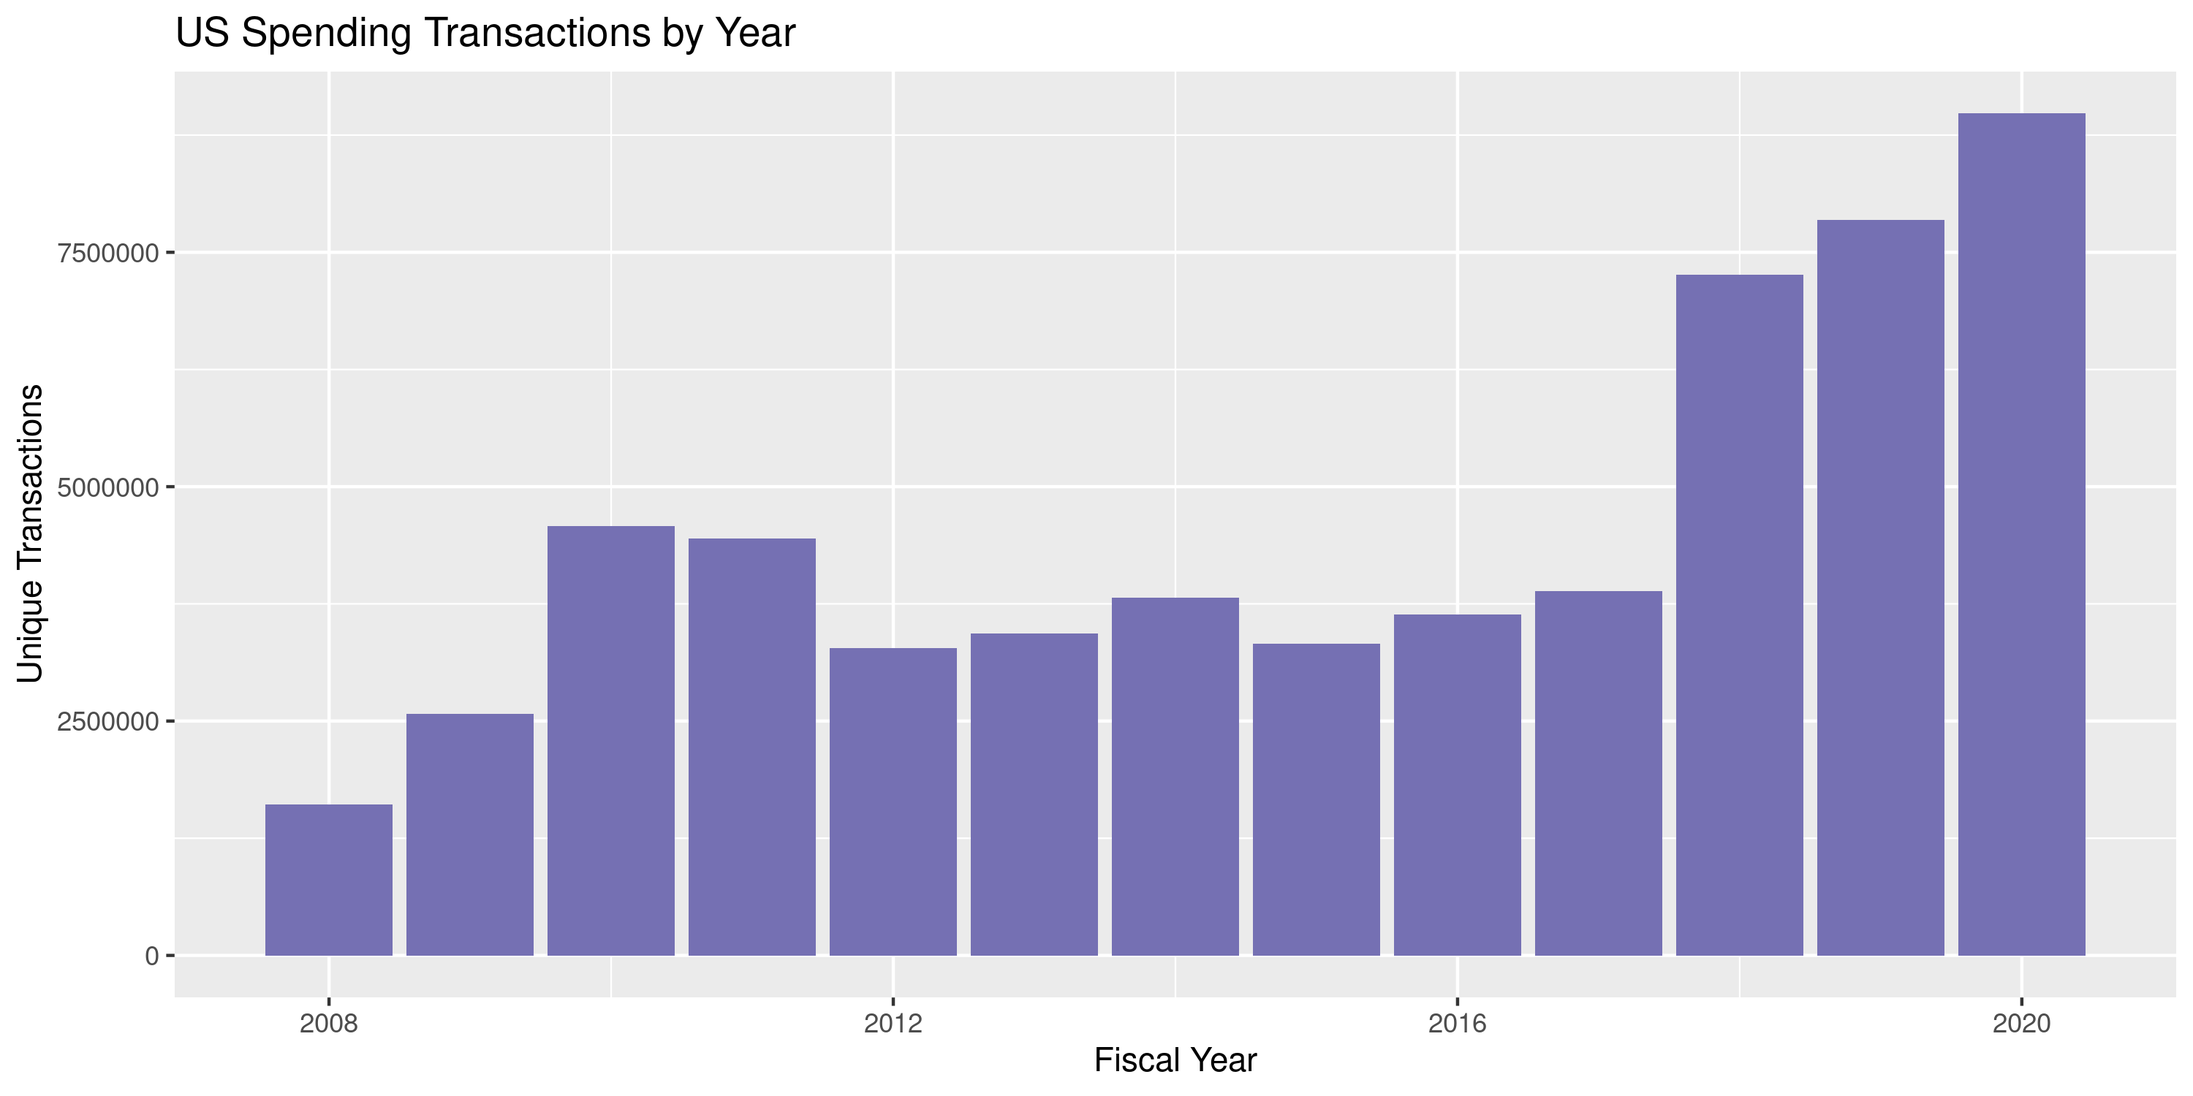
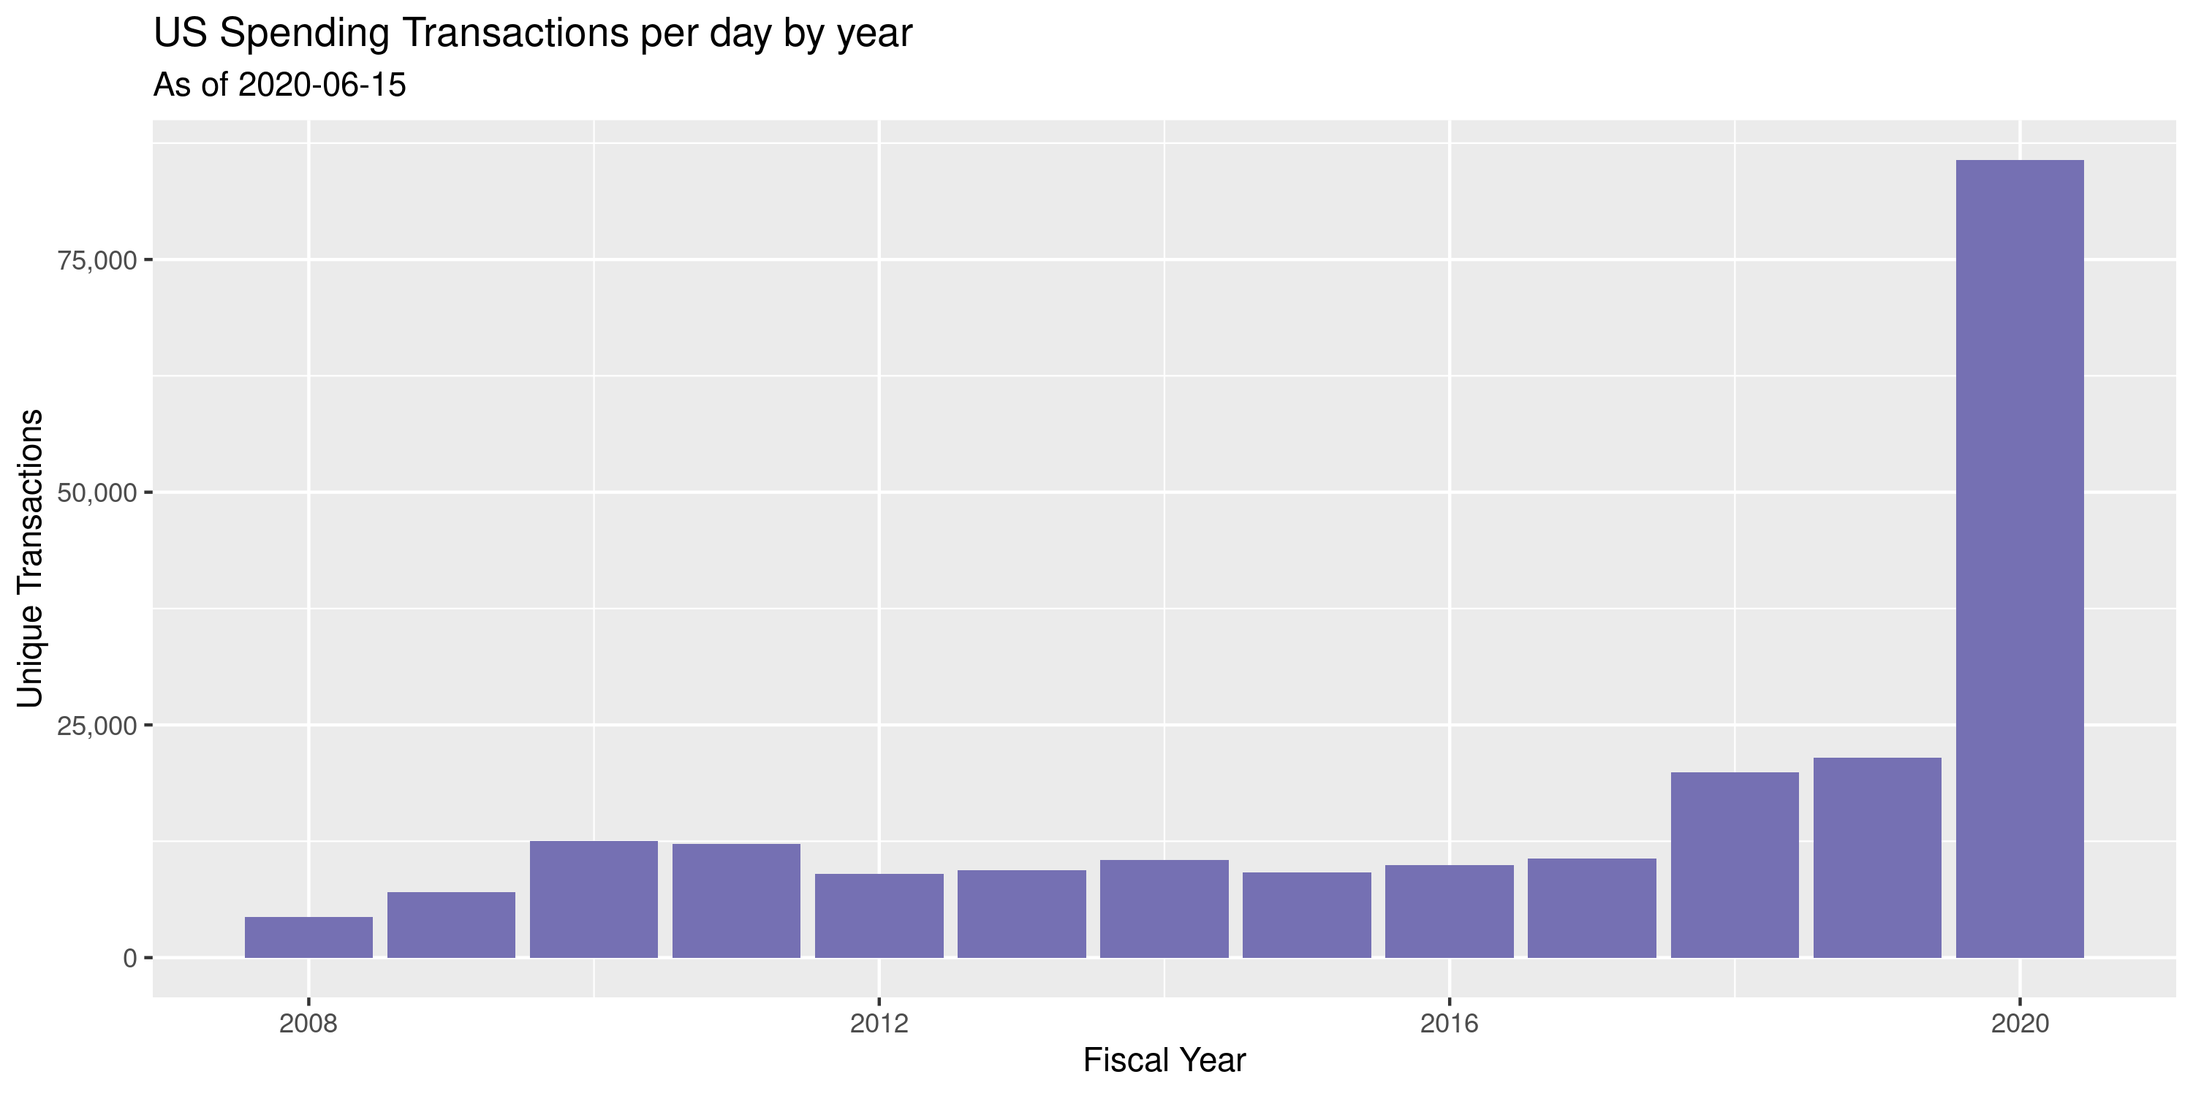
Update US assistance

diff --git a/R_campfin/us/assist/docs/us_assist_update.md b/R_campfin/us/assist/docs/us_assist_update.md
@@ -1,7 +1,7 @@
 Federal Financial Assistance Update
 ================
 Kiernan Nicholls
-2020-05-15 14:46:02
+2020-06-15 14:31:26
 
   - [Project](#project)
   - [Objectives](#objectives)
@@ -12,6 +12,7 @@ Kiernan Nicholls
   - [Layout](#layout)
   - [Read](#read)
   - [Check](#check)
+  - [Delta](#delta)
 
 <!-- Place comments regarding knitting here -->
 
@@ -147,13 +148,13 @@ files.
 ``` r
 zip_dir <- dir_create(here("us", "assist", "data", "zip"))
 base_url <- "https://files.usaspending.gov/award_data_archive/"
-fin_files <- glue("FY{year(today())}_All_Assistance_Full_20200513.zip")
+fin_files <- glue("FY{year(today())}_All_Assistance_Full_20200612.zip")
 fin_urls <- str_c(base_url, fin_files)
 fin_zips <- path(zip_dir, fin_files)
 ```
 
-    #> [1] "https://files.usaspending.gov/award_data_archive/FY2020_All_Assistance_Full_20200513.zip"
-    #> [1] "~/us/assist/data/zip/FY2020_All_Assistance_Full_20200513.zip"
+    #> [1] "https://files.usaspending.gov/award_data_archive/FY2020_All_Assistance_Full_20200612.zip"
+    #> [1] "~/us/assist/data/zip/FY2020_All_Assistance_Full_20200612.zip"
 
 We also need to add the records for spending and corrections made since
 this file was last updated. This is information is crucial, as it
@@ -170,7 +171,7 @@ contains the most recent data. This information can be found in the
 > download data prior to FY 2008, visit our Custom Award Data page.
 
 ``` r
-delta_file <- "FY(All)_All_Assistance_Delta_20200513.zip"
+delta_file <- "FY(All)_All_Assistance_Delta_20200612.zip"
 delta_url <- str_c(base_url, delta_file)
 delta_zip <- path(zip_dir, delta_file)
 ```
@@ -186,7 +187,7 @@ downloading.
 #> # A tibble: 1 x 2
 #>   url                                            size
 #>   <chr>                                   <fs::bytes>
-#> 1 FY2020_All_Assistance_Full_20200513.zip        464M
+#> 1 FY2020_All_Assistance_Full_20200612.zip        519M
 ```
 
 ``` r
@@ -284,10 +285,10 @@ them all at once into a single data file for exploration and wrangling.
 
 ``` r
 length(fin_paths)
-#> [1] 5
+#> [1] 6
 # total file sizes
 sum(file_size(fin_paths))
-#> 4.73G
+#> 5.15G
 # avail local memory
 as_fs_bytes(str_extract(system("free", intern = TRUE)[2], "\\d+"))
 #> 31.4M
@@ -420,14 +421,14 @@ for (f in c(fin_paths, delta_paths)) {
 
 ## Check
 
-In the end, 6 files were read and checked.
+In the end, 7 files were read and checked.
 
 ``` r
 all_paths <- dir_ls(raw_dir)
 length(all_paths)
-#> [1] 6
+#> [1] 7
 sum(file_size(all_paths))
-#> 5.16G
+#> 5.59G
 ```
 
 Now we can read the `spend_check.csv` text file to see the statistics
@@ -453,17 +454,22 @@ all_checks %>%
 #> # A tibble: 1 x 10
 #>       nrow  ncol  type start      end        missing  zero  city state   zip
 #>      <dbl> <dbl> <dbl> <date>     <date>       <dbl> <dbl> <dbl> <dbl> <dbl>
-#> 1 61089379  28.4  9.97 2002-04-08 2020-09-30 0.00300 0.245 0.991  1.00 0.999
+#> 1 66849136  34.5  9.96 2002-04-08 2020-09-30 0.00556 0.242 0.991  1.00 0.999
 ```
 
 ``` r
-all_checks %>% 
+per_day <- all_checks %>% 
   group_by(fiscal) %>% 
   summarise(nrow = sum(nrow)) %>% 
-  ggplot(aes(fiscal, nrow)) + 
+  mutate(per = nrow/365)
+per_day$per[13] <- per_day$nrow[13]/yday(today())
+per_day %>% 
+  ggplot(aes(fiscal, per)) + 
   geom_col(fill = dark2["purple"]) +
+  scale_y_continuous(labels = comma) +
   labs(
-    title = "US Spending Transactions by Year",
+    title = "US Spending Transactions per day by year",
+    subtitle = glue("As of {today()}"),
     x = "Fiscal Year",
     y = "Unique Transactions"
   )
@@ -473,73 +479,112 @@ all_checks %>%
 
 And here we have the total checks for every file.
 
-| file            |    nrow | types | start      | end        |   zero | city  | state  | zip    |
-| :-------------- | ------: | ----: | :--------- | :--------- | -----: | :---- | :----- | :----- |
-| `FY2008_1.csv`  | 1000000 |    10 | 2008-03-31 | 2008-09-30 | 576642 | 98.7% | 99.9%  | 99.8%  |
-| `FY2008_2.csv`  |  608006 |    10 | 2007-10-01 | 2008-03-31 | 376954 | 98.8% | 100.0% | 99.6%  |
-| `FY2009_1.csv`  | 1000000 |    10 | 2009-06-18 | 2009-09-30 | 512932 | 98.3% | 99.6%  | 99.7%  |
-| `FY2009_2.csv`  | 1000000 |    10 | 2009-02-05 | 2009-06-18 | 638277 | 98.9% | 99.9%  | 99.8%  |
-| `FY2009_3.csv`  |  577111 |    10 | 2008-10-01 | 2009-02-05 | 353010 | 98.9% | 99.9%  | 99.8%  |
-| `FY2010_1.csv`  | 1000000 |    10 | 2010-06-24 | 2010-09-30 | 539422 | 98.6% | 99.6%  | 99.8%  |
-| `FY2010_2.csv`  | 1000000 |    10 | 2010-04-02 | 2010-06-24 | 505128 | 99.1% | 99.8%  | 99.8%  |
-| `FY2010_3.csv`  | 1000000 |    10 | 2010-01-18 | 2010-04-02 | 463503 | 99.2% | 99.9%  | 99.8%  |
-| `FY2010_4.csv`  | 1000000 |    10 | 2009-10-23 | 2010-01-18 | 380230 | 99.1% | 99.9%  | 99.8%  |
-| `FY2010_5.csv`  |  579794 |    10 | 2009-10-01 | 2009-10-23 |  85910 | 99.2% | 100.0% | 100.0% |
-| `FY2011_1.csv`  | 1000000 |    10 | 2011-06-30 | 2011-09-30 | 397324 | 98.7% | 99.5%  | 99.8%  |
-| `FY2011_2.csv`  | 1000000 |    10 | 2011-04-18 | 2011-06-30 | 467776 | 99.2% | 99.7%  | 99.9%  |
-| `FY2011_3.csv`  | 1000000 |    10 | 2011-01-01 | 2011-04-18 | 425620 | 99.1% | 99.8%  | 99.9%  |
-| `FY2011_4.csv`  | 1000000 |    10 | 2010-10-09 | 2011-01-01 | 369793 | 99.2% | 100.0% | 99.9%  |
-| `FY2011_5.csv`  |  446187 |    10 | 2010-10-01 | 2010-10-09 |  39775 | 99.1% | 100.0% | 100.0% |
-| `FY2012_1.csv`  | 1000000 |    10 | 2012-05-29 | 2012-09-30 | 237388 | 98.3% | 100.0% | 99.7%  |
-| `FY2012_2.csv`  | 1000000 |    10 | 2011-12-31 | 2012-05-29 | 219791 | 98.7% | 99.6%  | 99.7%  |
-| `FY2012_3.csv`  | 1000000 |    10 | 2011-10-07 | 2011-12-31 | 180489 | 99.1% | 99.7%  | 99.8%  |
-| `FY2012_4.csv`  |  274924 |    10 | 2011-10-01 | 2011-10-07 |  15074 | 99.0% | 100.0% | 100.0% |
-| `FY2013_1.csv`  | 1000000 |    10 | 2013-06-07 | 2013-09-30 | 228070 | 97.8% | 100.0% | 99.9%  |
-| `FY2013_2.csv`  | 1000000 |    10 | 2013-01-29 | 2013-06-07 | 230441 | 98.6% | 100.0% | 99.6%  |
-| `FY2013_3.csv`  | 1000000 |    10 | 2012-10-05 | 2013-01-29 | 194301 | 99.0% | 100.0% | 98.5%  |
-| `FY2013_4.csv`  |  436000 |    10 | 2012-10-01 | 2012-10-05 |   3152 | 99.0% | 100.0% | 100.0% |
-| `FY2014_1.csv`  | 1000000 |    10 | 2014-06-27 | 2014-09-30 | 202536 | 97.8% | 100.0% | 99.9%  |
-| `FY2014_2.csv`  | 1000000 |    10 | 2014-02-28 | 2014-06-27 | 235792 | 98.1% | 100.0% | 99.9%  |
-| `FY2014_3.csv`  | 1000000 |    10 | 2013-10-31 | 2014-02-28 | 225858 | 98.7% | 100.0% | 100.0% |
-| `FY2014_4.csv`  |  818183 |    10 | 2013-10-01 | 2013-10-31 |  49032 | 99.0% | 100.0% | 100.0% |
-| `FY2015_1.csv`  | 1000000 |    10 | 2015-06-17 | 2015-09-30 | 207919 | 97.4% | 100.0% | 99.9%  |
-| `FY2015_2.csv`  | 1000000 |    10 | 2015-02-10 | 2015-06-17 | 228750 | 98.2% | 100.0% | 99.9%  |
-| `FY2015_3.csv`  | 1000000 |    10 | 2014-10-28 | 2015-02-10 | 211778 | 98.6% | 100.0% | 100.0% |
-| `FY2015_4.csv`  |  328425 |    10 | 2014-10-01 | 2014-10-28 |  44285 | 98.9% | 100.0% | 100.0% |
-| `FY2016_1.csv`  | 1000000 |    10 | 2016-06-28 | 2016-09-30 | 193095 | 97.8% | 100.0% | 99.9%  |
-| `FY2016_2.csv`  | 1000000 |    10 | 2016-02-25 | 2016-06-28 | 227867 | 98.1% | 100.0% | 99.9%  |
-| `FY2016_3.csv`  | 1000000 |    10 | 2015-11-03 | 2016-02-25 | 201722 | 98.2% | 100.0% | 100.0% |
-| `FY2016_4.csv`  |  632643 |    10 | 2015-10-01 | 2015-11-03 |  50961 | 99.0% | 100.0% | 100.0% |
-| `FY2017_1.csv`  | 1000000 |    10 | 2017-06-30 | 2017-09-30 | 146121 | 99.4% | 100.0% | 100.0% |
-| `FY2017_2.csv`  | 1000000 |    10 | 2017-03-23 | 2017-06-30 | 174485 | 99.5% | 100.0% | 100.0% |
-| `FY2017_3.csv`  | 1000000 |    10 | 2016-12-05 | 2017-03-23 | 192208 | 99.3% | 100.0% | 100.0% |
-| `FY2017_4.csv`  |  887842 |    10 | 2016-10-01 | 2016-12-05 | 137418 | 99.0% | 100.0% | 100.0% |
-| `FY2018_1.csv`  | 1000000 |    10 | 2017-10-01 | 2018-09-30 |  85505 | 99.6% | 100.0% | 100.0% |
-| `FY2018_2.csv`  | 1000000 |    10 | 2017-10-01 | 2018-09-30 |  88338 | 99.6% | 100.0% | 100.0% |
-| `FY2018_3.csv`  | 1000000 |    10 | 2017-10-01 | 2018-09-30 |  85913 | 99.6% | 100.0% | 100.0% |
-| `FY2018_4.csv`  | 1000000 |    10 | 2017-10-01 | 2018-09-30 |  87780 | 99.5% | 100.0% | 100.0% |
-| `FY2018_5.csv`  | 1000000 |    10 | 2017-10-01 | 2018-09-30 |  88827 | 99.5% | 100.0% | 100.0% |
-| `FY2018_6.csv`  | 1000000 |    10 | 2017-10-01 | 2018-09-30 |  85332 | 99.5% | 100.0% | 100.0% |
-| `FY2018_7.csv`  | 1000000 |    10 | 2017-10-01 | 2018-09-30 |  87710 | 99.6% | 100.0% | 100.0% |
-| `FY2018_8.csv`  |  263073 |    10 | 2017-10-01 | 2018-09-30 |  24243 | 99.5% | 100.0% | 100.0% |
-| `FY2019_1.csv`  | 1000000 |    10 | 2018-10-01 | 2019-09-30 | 178908 | 99.6% | 100.0% | 100.0% |
-| `FY2019_2.csv`  | 1000000 |    10 | 2018-10-01 | 2019-09-30 | 181622 | 99.6% | 100.0% | 100.0% |
-| `FY2019_3.csv`  | 1000000 |    10 | 2018-10-01 | 2019-09-30 | 183549 | 99.6% | 100.0% | 100.0% |
-| `FY2019_4.csv`  | 1000000 |    10 | 2018-10-01 | 2019-09-30 | 182285 | 99.6% | 100.0% | 100.0% |
-| `FY2019_5.csv`  | 1000000 |    10 | 2018-10-01 | 2019-09-30 | 182443 | 99.6% | 100.0% | 100.0% |
-| `FY2019_6.csv`  | 1000000 |    10 | 2018-10-01 | 2019-09-30 | 182384 | 99.6% | 100.0% | 100.0% |
-| `FY2019_7.csv`  | 1000000 |    10 | 2018-10-01 | 2019-09-30 | 181664 | 99.6% | 100.0% | 100.0% |
-| `FY2019_8.csv`  |  843036 |    10 | 2018-10-01 | 2019-09-30 | 153240 | 99.6% | 100.0% | 100.0% |
-| `FY2020_1.csv`  | 1000000 |    10 | 2019-12-02 | 2020-09-30 | 415899 | 99.7% | 100.0% | 100.0% |
-| `FY2020_2.csv`  | 1000000 |    10 | 2019-10-17 | 2019-12-02 | 226640 | 99.6% | 100.0% | 100.0% |
-| `FY2020_3.csv`  | 1000000 |    10 | 2019-10-08 | 2019-10-17 |  50671 | 99.5% | 100.0% | 100.0% |
-| `FY2020_4.csv`  | 1000000 |     9 | 2019-10-04 | 2019-10-08 |  13856 | 99.4% | 100.0% | 100.0% |
-| `FY2020_5.csv`  |   74967 |     9 | 2019-10-01 | 2019-10-04 |  20449 | 99.5% | 100.0% | 100.0% |
-| `FY(All)_1.csv` |  985905 |    10 | 2007-07-13 | 2020-09-30 | 407000 | 99.7% | 100.0% | 100.0% |
-| `FY(All)_1.csv` |  985905 |    10 | 2007-07-13 | 2020-09-30 | 407000 | 99.7% | 100.0% | 100.0% |
-| `FY2020_1.csv`  | 1000000 |    10 | 2020-01-31 | 2020-09-30 | 355215 | 99.8% | 100.0% | 100.0% |
-| `FY2020_2.csv`  | 1000000 |    10 | 2019-11-27 | 2020-01-31 | 399915 | 99.7% | 100.0% | 100.0% |
-| `FY2020_3.csv`  | 1000000 |    10 | 2019-10-09 | 2019-11-27 | 250475 | 99.6% | 100.0% | 100.0% |
-| `FY2020_4.csv`  | 1000000 |    10 | 2019-10-08 | 2019-10-09 |   7519 | 99.4% | 100.0% | 100.0% |
-| `FY2020_5.csv`  |  906004 |    10 | 2019-10-01 | 2019-10-08 |  33683 | 99.4% | 100.0% | 100.0% |
-| `FY(All)_1.csv` |  441374 |    10 | 2002-04-08 | 2020-05-11 | 169256 | 99.8% | 100.0% | 100.0% |
+| file            | nrow      | start      | end        | missing | zero  | city  | state  | zip    |
+| :-------------- | :-------- | :--------- | :--------- | ------: | :---- | :---- | :----- | :----- |
+| `FY2008_1.csv`  | 1,000,000 | 2008-03-31 | 2008-09-30 |       0 | 57.7% | 98.7% | 99.9%  | 99.8%  |
+| `FY2008_2.csv`  | 608,006   | 2007-10-01 | 2008-03-31 |       0 | 62.0% | 98.8% | 100.0% | 99.6%  |
+| `FY2009_1.csv`  | 1,000,000 | 2009-06-18 | 2009-09-30 |       0 | 51.3% | 98.3% | 99.6%  | 99.7%  |
+| `FY2009_2.csv`  | 1,000,000 | 2009-02-05 | 2009-06-18 |       0 | 63.8% | 98.9% | 99.9%  | 99.8%  |
+| `FY2009_3.csv`  | 577,111   | 2008-10-01 | 2009-02-05 |       0 | 61.2% | 98.9% | 99.9%  | 99.8%  |
+| `FY2010_1.csv`  | 1,000,000 | 2010-06-24 | 2010-09-30 |       0 | 53.9% | 98.6% | 99.6%  | 99.8%  |
+| `FY2010_2.csv`  | 1,000,000 | 2010-04-02 | 2010-06-24 |       0 | 50.5% | 99.1% | 99.8%  | 99.8%  |
+| `FY2010_3.csv`  | 1,000,000 | 2010-01-18 | 2010-04-02 |       0 | 46.4% | 99.2% | 99.9%  | 99.8%  |
+| `FY2010_4.csv`  | 1,000,000 | 2009-10-23 | 2010-01-18 |       0 | 38.0% | 99.1% | 99.9%  | 99.8%  |
+| `FY2010_5.csv`  | 579,794   | 2009-10-01 | 2009-10-23 |       0 | 14.8% | 99.2% | 100.0% | 100.0% |
+| `FY2011_1.csv`  | 1,000,000 | 2011-06-30 | 2011-09-30 |       0 | 39.7% | 98.7% | 99.5%  | 99.8%  |
+| `FY2011_2.csv`  | 1,000,000 | 2011-04-18 | 2011-06-30 |       0 | 46.8% | 99.2% | 99.7%  | 99.9%  |
+| `FY2011_3.csv`  | 1,000,000 | 2011-01-01 | 2011-04-18 |       0 | 42.6% | 99.1% | 99.8%  | 99.9%  |
+| `FY2011_4.csv`  | 1,000,000 | 2010-10-09 | 2011-01-01 |       0 | 37.0% | 99.2% | 100.0% | 99.9%  |
+| `FY2011_5.csv`  | 446,187   | 2010-10-01 | 2010-10-09 |       0 | 8.9%  | 99.1% | 100.0% | 100.0% |
+| `FY2012_1.csv`  | 1,000,000 | 2012-05-29 | 2012-09-30 |       0 | 23.7% | 98.3% | 100.0% | 99.7%  |
+| `FY2012_2.csv`  | 1,000,000 | 2011-12-31 | 2012-05-29 |       0 | 22.0% | 98.7% | 99.6%  | 99.7%  |
+| `FY2012_3.csv`  | 1,000,000 | 2011-10-07 | 2011-12-31 |       0 | 18.0% | 99.1% | 99.7%  | 99.8%  |
+| `FY2012_4.csv`  | 274,924   | 2011-10-01 | 2011-10-07 |       0 | 5.5%  | 99.0% | 100.0% | 100.0% |
+| `FY2013_1.csv`  | 1,000,000 | 2013-06-07 | 2013-09-30 |       0 | 22.8% | 97.8% | 100.0% | 99.9%  |
+| `FY2013_2.csv`  | 1,000,000 | 2013-01-29 | 2013-06-07 |       0 | 23.0% | 98.6% | 100.0% | 99.6%  |
+| `FY2013_3.csv`  | 1,000,000 | 2012-10-05 | 2013-01-29 |       0 | 19.4% | 99.0% | 100.0% | 98.5%  |
+| `FY2013_4.csv`  | 436,000   | 2012-10-01 | 2012-10-05 |       0 | 0.7%  | 99.0% | 100.0% | 100.0% |
+| `FY2014_1.csv`  | 1,000,000 | 2014-06-27 | 2014-09-30 |       0 | 20.3% | 97.8% | 100.0% | 99.9%  |
+| `FY2014_2.csv`  | 1,000,000 | 2014-02-28 | 2014-06-27 |       0 | 23.6% | 98.1% | 100.0% | 99.9%  |
+| `FY2014_3.csv`  | 1,000,000 | 2013-10-31 | 2014-02-28 |       0 | 22.6% | 98.7% | 100.0% | 100.0% |
+| `FY2014_4.csv`  | 818,183   | 2013-10-01 | 2013-10-31 |       0 | 6.0%  | 99.0% | 100.0% | 100.0% |
+| `FY2015_1.csv`  | 1,000,000 | 2015-06-17 | 2015-09-30 |       0 | 20.8% | 97.4% | 100.0% | 99.9%  |
+| `FY2015_2.csv`  | 1,000,000 | 2015-02-10 | 2015-06-17 |       0 | 22.9% | 98.2% | 100.0% | 99.9%  |
+| `FY2015_3.csv`  | 1,000,000 | 2014-10-28 | 2015-02-10 |       0 | 21.2% | 98.6% | 100.0% | 100.0% |
+| `FY2015_4.csv`  | 328,425   | 2014-10-01 | 2014-10-28 |       0 | 13.5% | 98.9% | 100.0% | 100.0% |
+| `FY2016_1.csv`  | 1,000,000 | 2016-06-28 | 2016-09-30 |       0 | 19.3% | 97.8% | 100.0% | 99.9%  |
+| `FY2016_2.csv`  | 1,000,000 | 2016-02-25 | 2016-06-28 |       0 | 22.8% | 98.1% | 100.0% | 99.9%  |
+| `FY2016_3.csv`  | 1,000,000 | 2015-11-03 | 2016-02-25 |       0 | 20.2% | 98.2% | 100.0% | 100.0% |
+| `FY2016_4.csv`  | 632,643   | 2015-10-01 | 2015-11-03 |       0 | 8.1%  | 99.0% | 100.0% | 100.0% |
+| `FY2017_1.csv`  | 1,000,000 | 2017-06-30 | 2017-09-30 |       0 | 14.6% | 99.4% | 100.0% | 100.0% |
+| `FY2017_2.csv`  | 1,000,000 | 2017-03-23 | 2017-06-30 |       0 | 17.4% | 99.5% | 100.0% | 100.0% |
+| `FY2017_3.csv`  | 1,000,000 | 2016-12-05 | 2017-03-23 |       0 | 19.2% | 99.3% | 100.0% | 100.0% |
+| `FY2017_4.csv`  | 887,842   | 2016-10-01 | 2016-12-05 |       0 | 15.5% | 99.0% | 100.0% | 100.0% |
+| `FY2018_1.csv`  | 1,000,000 | 2017-10-01 | 2018-09-30 |       0 | 8.6%  | 99.6% | 100.0% | 100.0% |
+| `FY2018_2.csv`  | 1,000,000 | 2017-10-01 | 2018-09-30 |       0 | 8.8%  | 99.6% | 100.0% | 100.0% |
+| `FY2018_3.csv`  | 1,000,000 | 2017-10-01 | 2018-09-30 |       0 | 8.6%  | 99.6% | 100.0% | 100.0% |
+| `FY2018_4.csv`  | 1,000,000 | 2017-10-01 | 2018-09-30 |       0 | 8.8%  | 99.5% | 100.0% | 100.0% |
+| `FY2018_5.csv`  | 1,000,000 | 2017-10-01 | 2018-09-30 |       0 | 8.9%  | 99.5% | 100.0% | 100.0% |
+| `FY2018_6.csv`  | 1,000,000 | 2017-10-01 | 2018-09-30 |       0 | 8.5%  | 99.5% | 100.0% | 100.0% |
+| `FY2018_7.csv`  | 1,000,000 | 2017-10-01 | 2018-09-30 |       0 | 8.8%  | 99.6% | 100.0% | 100.0% |
+| `FY2018_8.csv`  | 263,073   | 2017-10-01 | 2018-09-30 |       0 | 9.2%  | 99.5% | 100.0% | 100.0% |
+| `FY2019_1.csv`  | 1,000,000 | 2018-10-01 | 2019-09-30 |       0 | 17.9% | 99.6% | 100.0% | 100.0% |
+| `FY2019_2.csv`  | 1,000,000 | 2018-10-01 | 2019-09-30 |       0 | 18.2% | 99.6% | 100.0% | 100.0% |
+| `FY2019_3.csv`  | 1,000,000 | 2018-10-01 | 2019-09-30 |       0 | 18.4% | 99.6% | 100.0% | 100.0% |
+| `FY2019_4.csv`  | 1,000,000 | 2018-10-01 | 2019-09-30 |       0 | 18.2% | 99.6% | 100.0% | 100.0% |
+| `FY2019_5.csv`  | 1,000,000 | 2018-10-01 | 2019-09-30 |       0 | 18.2% | 99.6% | 100.0% | 100.0% |
+| `FY2019_6.csv`  | 1,000,000 | 2018-10-01 | 2019-09-30 |       0 | 18.2% | 99.6% | 100.0% | 100.0% |
+| `FY2019_7.csv`  | 1,000,000 | 2018-10-01 | 2019-09-30 |       0 | 18.2% | 99.6% | 100.0% | 100.0% |
+| `FY2019_8.csv`  | 843,036   | 2018-10-01 | 2019-09-30 |       0 | 18.2% | 99.6% | 100.0% | 100.0% |
+| `FY2020_1.csv`  | 1,000,000 | 2019-12-02 | 2020-09-30 |       0 | 41.6% | 99.7% | 100.0% | 100.0% |
+| `FY2020_2.csv`  | 1,000,000 | 2019-10-17 | 2019-12-02 |       0 | 22.7% | 99.6% | 100.0% | 100.0% |
+| `FY2020_3.csv`  | 1,000,000 | 2019-10-08 | 2019-10-17 |       0 | 5.1%  | 99.5% | 100.0% | 100.0% |
+| `FY2020_4.csv`  | 1,000,000 | 2019-10-04 | 2019-10-08 |       0 | 1.4%  | 99.4% | 100.0% | 100.0% |
+| `FY2020_5.csv`  | 74,967    | 2019-10-01 | 2019-10-04 |       0 | 27.3% | 99.5% | 100.0% | 100.0% |
+| `FY(All)_1.csv` | 985,905   | 2007-07-13 | 2020-09-30 |       0 | 41.3% | 99.7% | 100.0% | 100.0% |
+| `FY(All)_1.csv` | 985,905   | 2007-07-13 | 2020-09-30 |       0 | 41.3% | 99.7% | 100.0% | 100.0% |
+| `FY2020_1.csv`  | 1,000,000 | 2020-01-31 | 2020-09-30 |   36486 | 35.5% | 99.8% | 100.0% | 100.0% |
+| `FY2020_2.csv`  | 1,000,000 | 2019-11-27 | 2020-01-31 |   37374 | 40.0% | 99.7% | 100.0% | 100.0% |
+| `FY2020_3.csv`  | 1,000,000 | 2019-10-09 | 2019-11-27 |   93002 | 25.0% | 99.6% | 100.0% | 100.0% |
+| `FY2020_4.csv`  | 1,000,000 | 2019-10-08 | 2019-10-09 |    1549 | 0.8%  | 99.4% | 100.0% | 100.0% |
+| `FY2020_5.csv`  | 906,004   | 2019-10-01 | 2019-10-08 |    7933 | 3.7%  | 99.4% | 100.0% | 100.0% |
+| `FY(All)_1.csv` | 441,374   | 2002-04-08 | 2020-05-11 |    6745 | 38.3% | 99.8% | 100.0% | 100.0% |
+| `FY2020_1.csv`  | 1,000,000 | 2020-02-26 | 2020-09-30 |   28742 | 27.2% | 99.7% | 100.0% | 100.0% |
+| `FY2020_2.csv`  | 1,000,000 | 2019-12-20 | 2020-02-26 |   32847 | 38.9% | 99.8% | 100.0% | 100.0% |
+| `FY2020_3.csv`  | 1,000,000 | 2019-10-31 | 2019-12-20 |   72964 | 28.5% | 99.6% | 100.0% | 100.0% |
+| `FY2020_4.csv`  | 1,000,000 | 2019-10-08 | 2019-10-31 |   39582 | 12.4% | 99.5% | 100.0% | 100.0% |
+| `FY2020_5.csv`  | 1,000,000 | 2019-10-08 | 2019-10-08 |    1095 | 0.4%  | 99.4% | 100.0% | 100.0% |
+| `FY2020_6.csv`  | 327,464   | 2019-10-01 | 2019-10-08 |    7231 | 9.5%  | 99.5% | 100.0% | 100.0% |
+| `FY(All)_1.csv` | 432,293   | 2010-09-30 | 2020-06-10 |    6117 | 14.8% | 99.7% | 100.0% | 100.0% |
+
+## Delta
+
+These 2020 files contain *all* records of contracts made in the 2020
+fiscal year as of June 12. This means records that were previously only
+listed in th Delta files are now incorporated in the regular dataset. To
+ensure the TAP database is both comprehensive and absent of needless
+duplicates, we will remove the previous delta file and replace it only
+with those records not now found in the regular data.
+
+We will have to manually download the old delta files and read them into
+a single data frame. Then, we can filter out duplicate records and
+create a new file of old delta records, mostly corrections to pre-2020
+records.
+
+``` r
+new_delta_path <- path(raw_dir, "us_assist_delta-old.csv")
+old_delta <- vroom(dir_ls(here("us", "assist", "data", "old")))
+nrow(old_delta)
+#> [1] 985905
+new_keys <- dir_ls(raw_dir, regex = "\\d.csv$") %>% 
+  map(vroom, col_types = cols(.default = "c")) %>% 
+  map_df(select, key)
+new_keys <- unique(as_vector(new_keys))
+length(new_keys)
+#> [1] 4773661
+mean(old_delta$key %in% new_keys)
+#> [1] 0.9931058
+old_delta <- filter(old_delta, key %out% new_keys)
+nrow(old_delta)
+#> [1] 6797
+```
